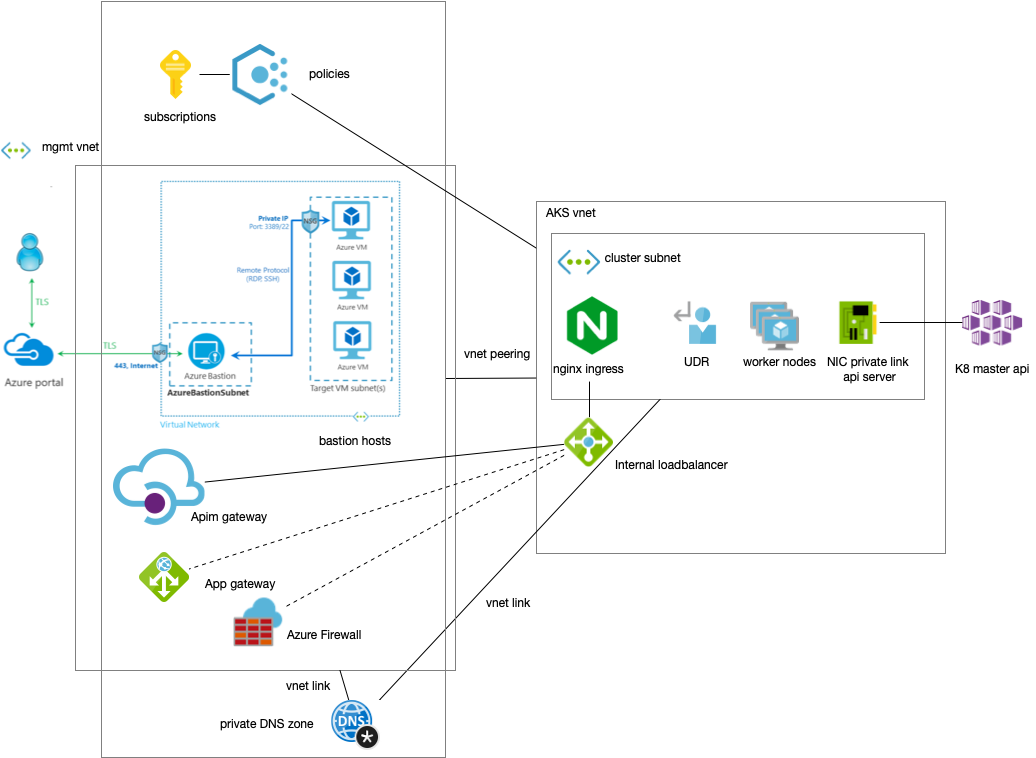
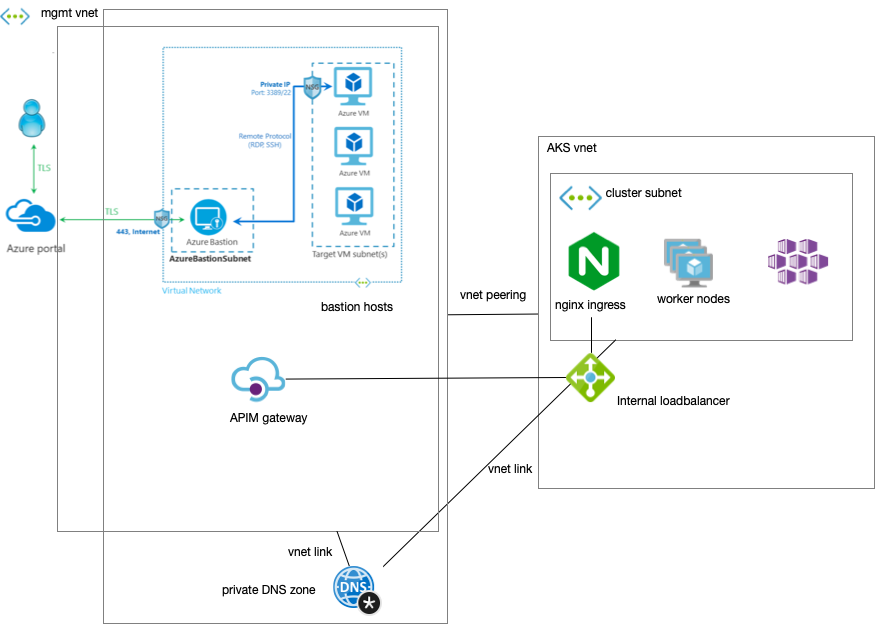
update doc

diff --git a/README.md b/README.md
@@ -1,4 +1,8 @@
 # apim-demo
-Demonstration of rolling out an using APIM 
+
+This repo contains a cookbook for you to get started with APIM.
+It rolls out an AKS and MGMT vnet. Deploys an AKS cluster with Ingress controller (linked to internal loadbalancer) and creates and APIM gateway on the management VNET.
 
 ![Image of APIM solution](https://raw.githubusercontent.com/chrisvugrinec/apim-demo/master/images/apim.png)
+
+for more complex scenario (using UDR/ Firewall/ AKS private cluster), please have a look at: https://github.com/chrisvugrinec/aks-sec-demo
